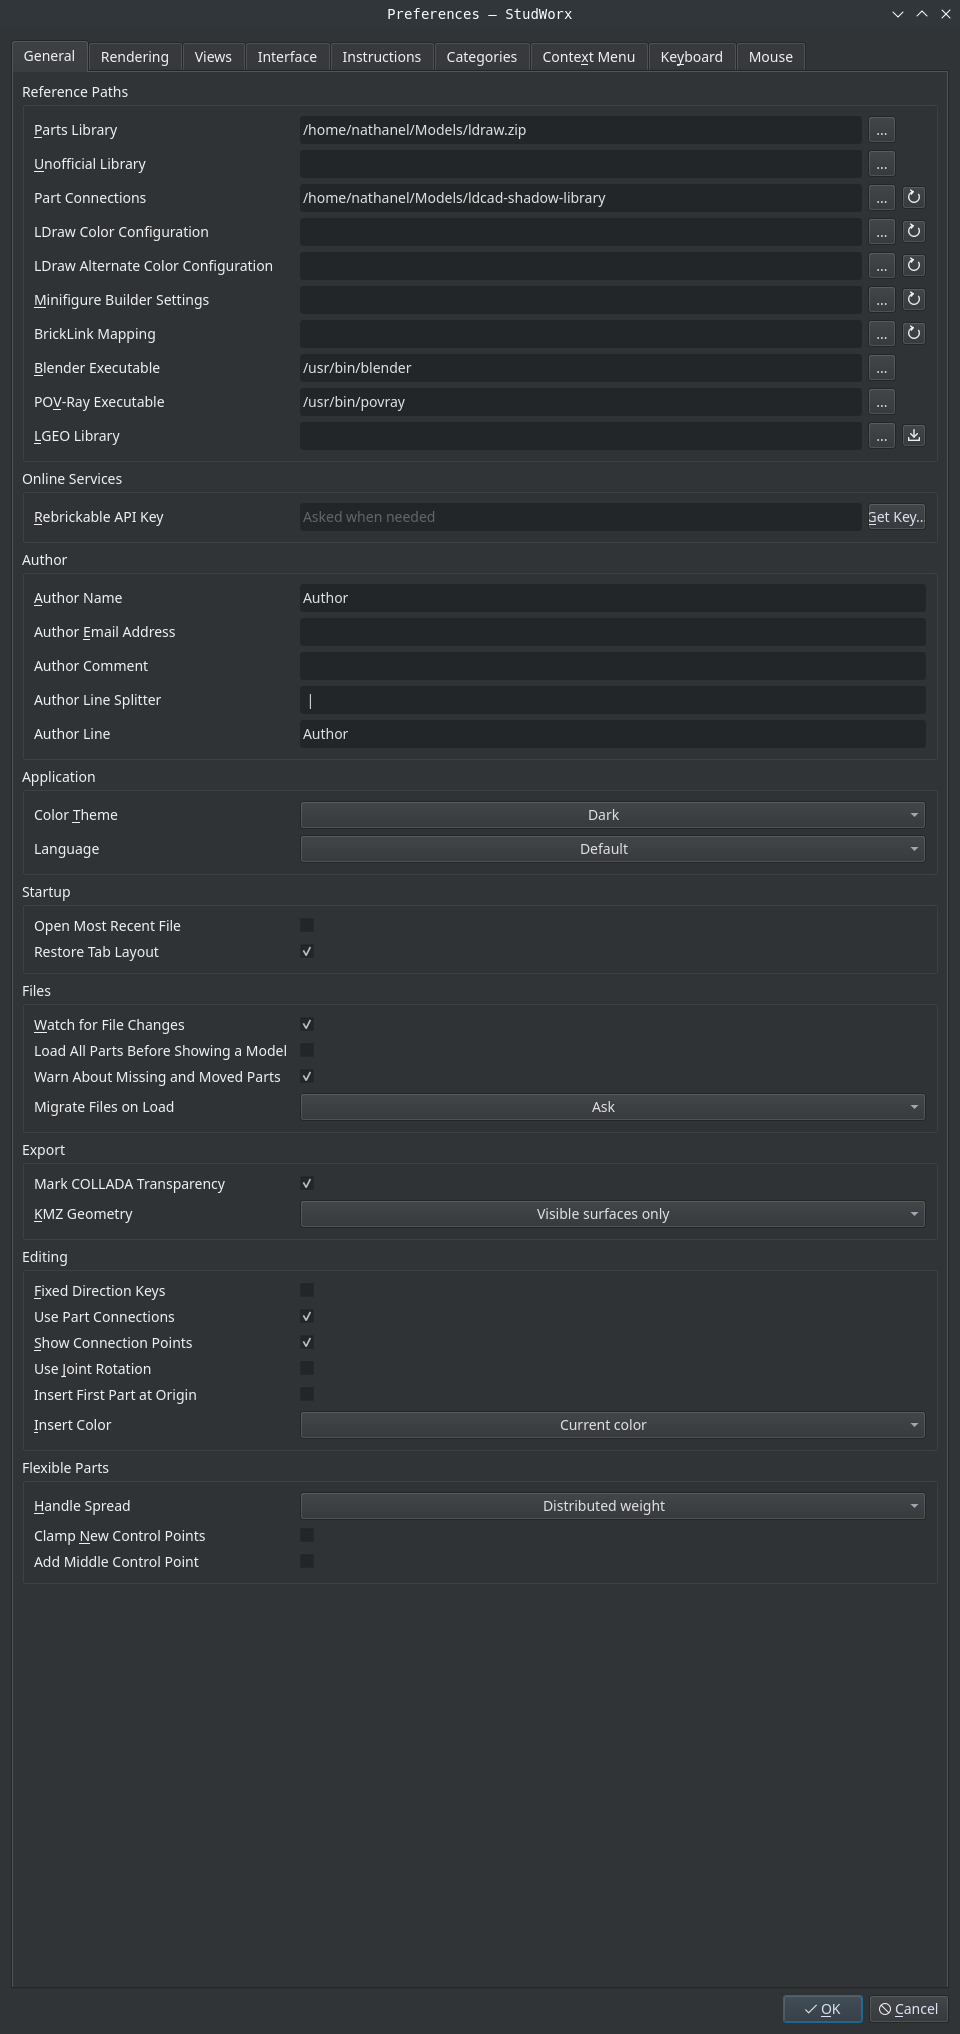
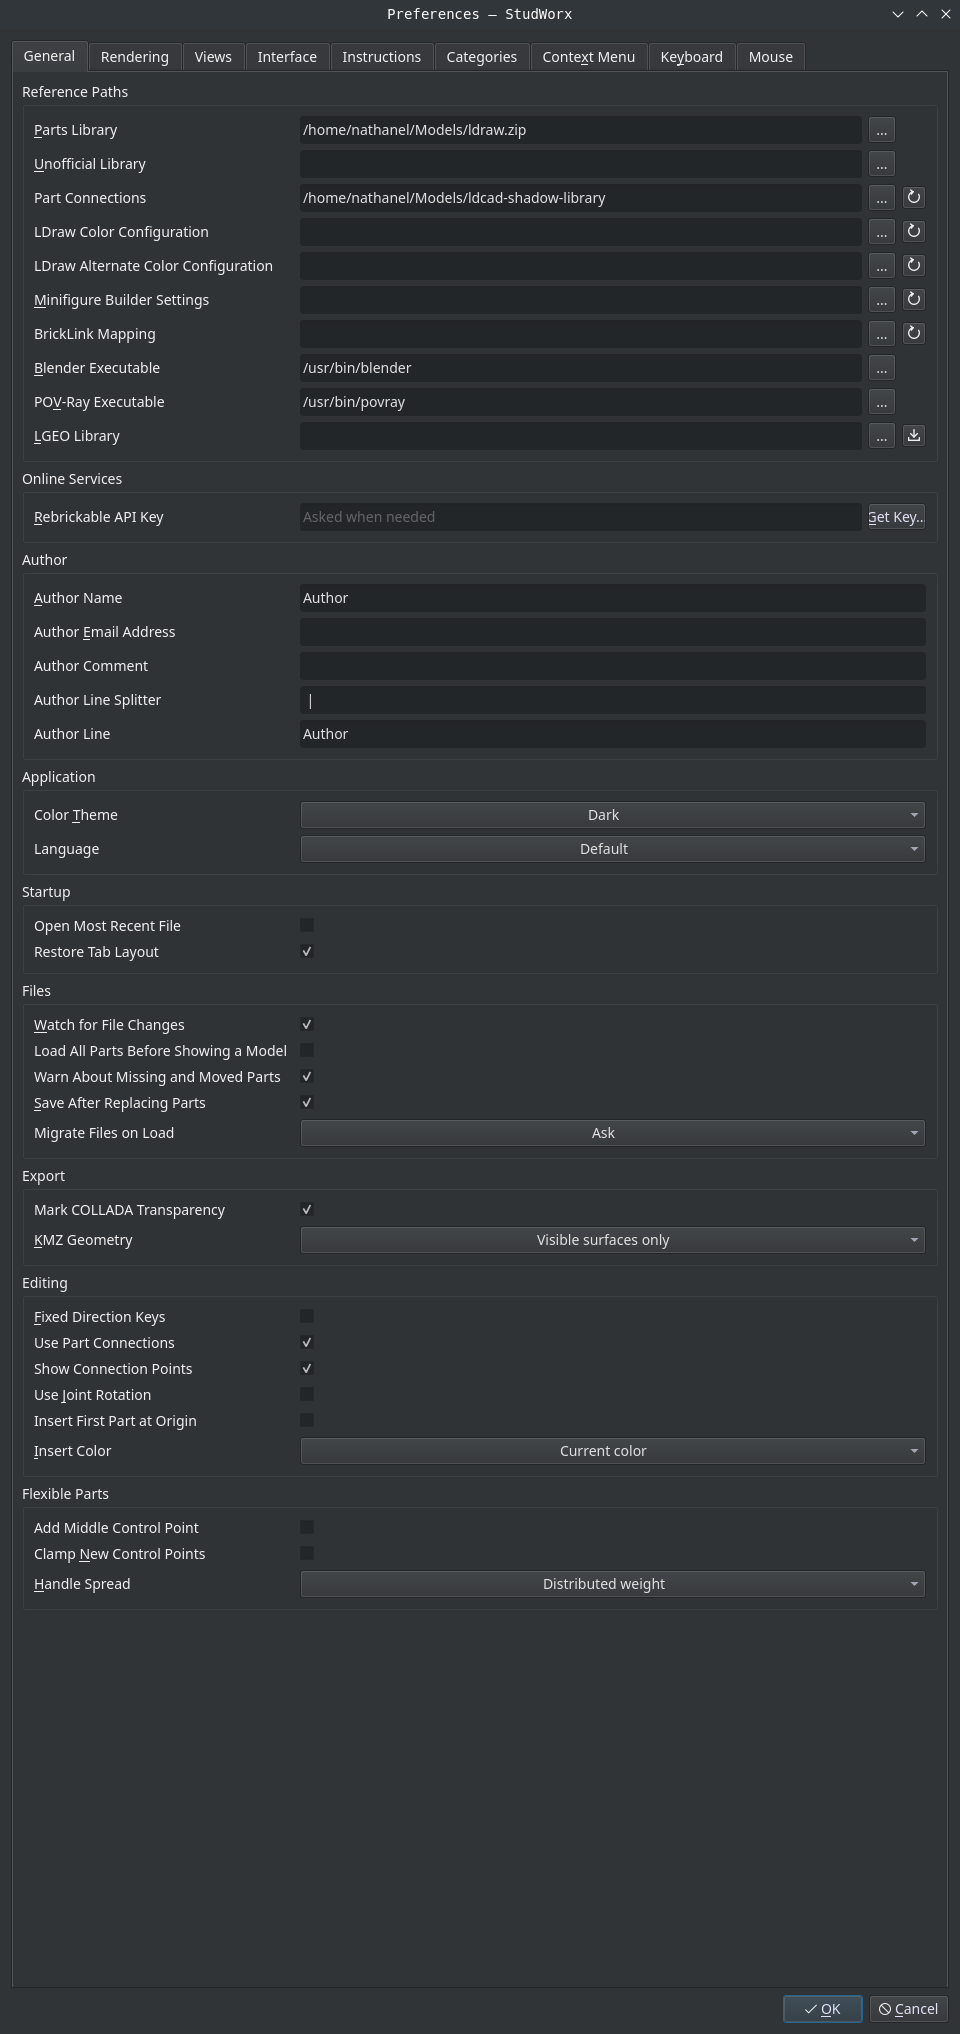
Code & Features Update

diff --git a/index.html b/index.html
@@ -2645,9 +2645,9 @@
 			<p class="lead">File &gt; Instructions lays the <a href="#steps">steps</a> out on pages with a cover, parts lists and a bill of materials. Every page element can be styled and placed, and everything is saved in the model file as !SW INSTRUCTION <a href="#meta">meta</a> commands.</p>
 
 			<div class="gallery three">
-				<figure style="--width-image: 2551; --height-image: 1472">
+				<figure style="--width-image: 2728; --height-image: 1574">
 					<button class="shot" data-full="resources/images/instructions-feature-cover-page.png" aria-label="Enlarge Cover page">
-						<img src="resources/images/instructions-feature-cover-page.png" alt="Cover page" width="2551" height="1472" loading="lazy">
+						<img src="resources/images/instructions-feature-cover-page.png" alt="Cover page" width="2728" height="1574" loading="lazy">
 					</button>
 
 					<figcaption>Cover page</figcaption>
@@ -3580,6 +3580,7 @@ studworx/tools/studworx-install [prefix] [build directory]</code></pre>
 					<li>Missing parts: the placeholder brick for a part the library can<code>t find gets a bold red outline, in the timeline</code>s red, in every step and inside submodels, and the timeline shows the submodel holding it in the same red; selecting it shows the selection outline instead</li>
 					<li>Missing and Moved Parts: Replace Checked saves the file right after swapping the parts, unless Save After Replacing is unchecked in the list or under Preferences, General, <a href="#files">Files</a></li>
 					<li>Preferences: Flexible Parts lists Add Middle Control Point first and Handle Spread last</li>
+					<li>Samples: every sample has a title, and its name line matches its file name, so <a href="#instructions">instructions</a> cover pages show the title instead of New Model.ldr</li>
 					<li>File: Missing and Moved Parts reopens the list of missing and renumbered parts after its warning was closed, without reopening the model</li>
 					<li>Site: feature descriptions rewritten in plain words, saying what each feature does instead of listing its commands, now that the command index names them</li>
 				</ul>
@@ -3604,7 +3605,7 @@ studworx/tools/studworx-install [prefix] [build directory]</code></pre>
 					<li>POV-Ray: a Region render keeps only the region, over the faded view of the model, where it was placed into an older image of the same file</li>
 					<li>POV-Ray: Region draws a square with Ctrl held, resizes from its edges and corners, moves when dragged from inside, and is drawn anew when dragged from outside</li>
 					<li>POV-Ray: Editor beside Log shows the scene file with syntax colors, renders your edits when Render using this configuration instead of the model configuration is ticked, greys out the settings it ignores, writes the scene again with Reset, opens a scene file with Open and saves a copy with Save As</li>
-					<li>POV-Ray: the render window is a normal window with minimize and maximize like the <a href="#instructions">Instructions</a> window, and its buttons read Editor, Render, Log</li>
+					<li>POV-Ray: the render window is a normal window with minimize and maximize like the Instructions window, and its buttons read Editor, Render, Log</li>
 					<li>Render and Instructions windows: panels use the main window title bar with Float and Close, follow Lock Interface and reopen from the right-click panel list, where the Render panel stays greyed out as the one that never closes</li>
 					<li>Preferences: Download beside Part Connections and LGEO Library fetches the LDCad shadow library and the LGEO library from GitHub into the folder named there or the StudWorx data folder, with a download icon that turns into Update with the refresh icon once the library is there, and Use Part Connections moves to the second row of the Editing group of General, greying out the Part Connections path while off, and the window is a normal window with the window manager buttons like Instructions</li>
 					<li>Connection Points: with Part Connections on, the part under the pointer shows its connection points within a 2x2 stud area, as stud sized cylinders standing out of each opening, filled for male and hollow for female, only where they face the camera, and clips, hinge fingers and balls filled at their own size, all drawn over the parts, toggled under Steps and Highlighting in the view gear menu, with its color in Preferences</li>

diff --git a/NOTICE.md b/NOTICE.md
@@ -36,6 +36,7 @@
   - Missing parts: the placeholder brick for a part the library can't find gets a bold red outline, in the timeline's red, in every step and inside submodels, and the timeline shows the submodel holding it in the same red; selecting it shows the selection outline instead
   - Missing and Moved Parts: Replace Checked saves the file right after swapping the parts, unless Save After Replacing is unchecked in the list or under Preferences, General, Files
   - Preferences: Flexible Parts lists Add Middle Control Point first and Handle Spread last
+  - Samples: every sample has a title, and its name line matches its file name, so instructions cover pages show the title instead of New Model.ldr
   - File: Missing and Moved Parts reopens the list of missing and renumbered parts after its warning was closed, without reopening the model
   - Site: feature descriptions rewritten in plain words, saying what each feature does instead of listing its commands, now that the command index names them
 
